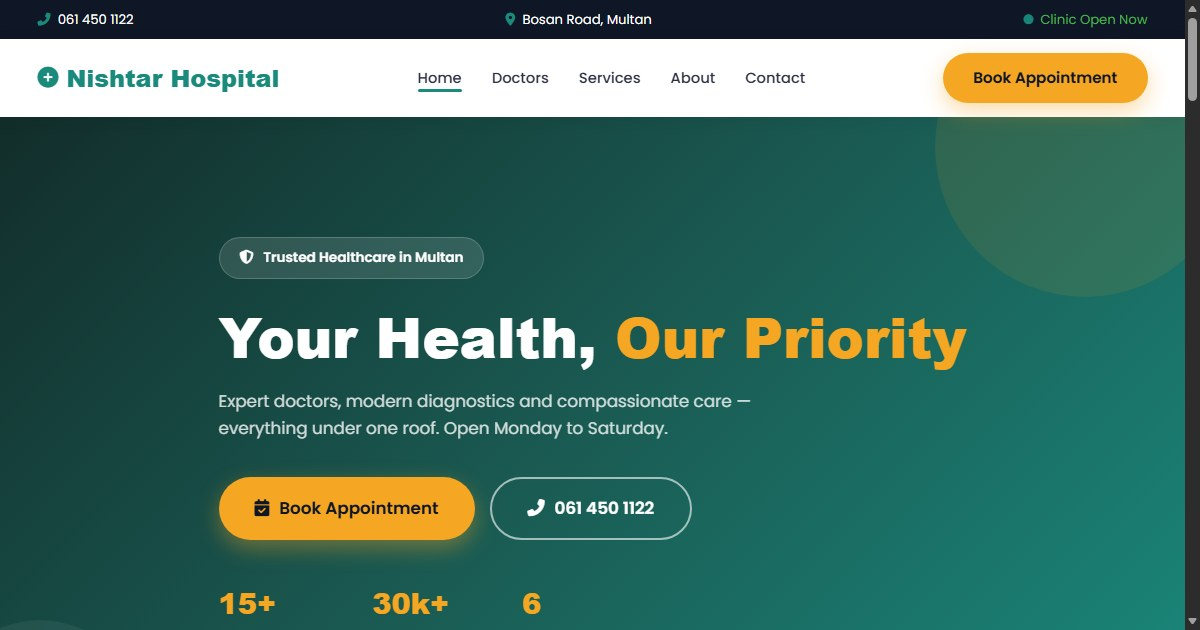
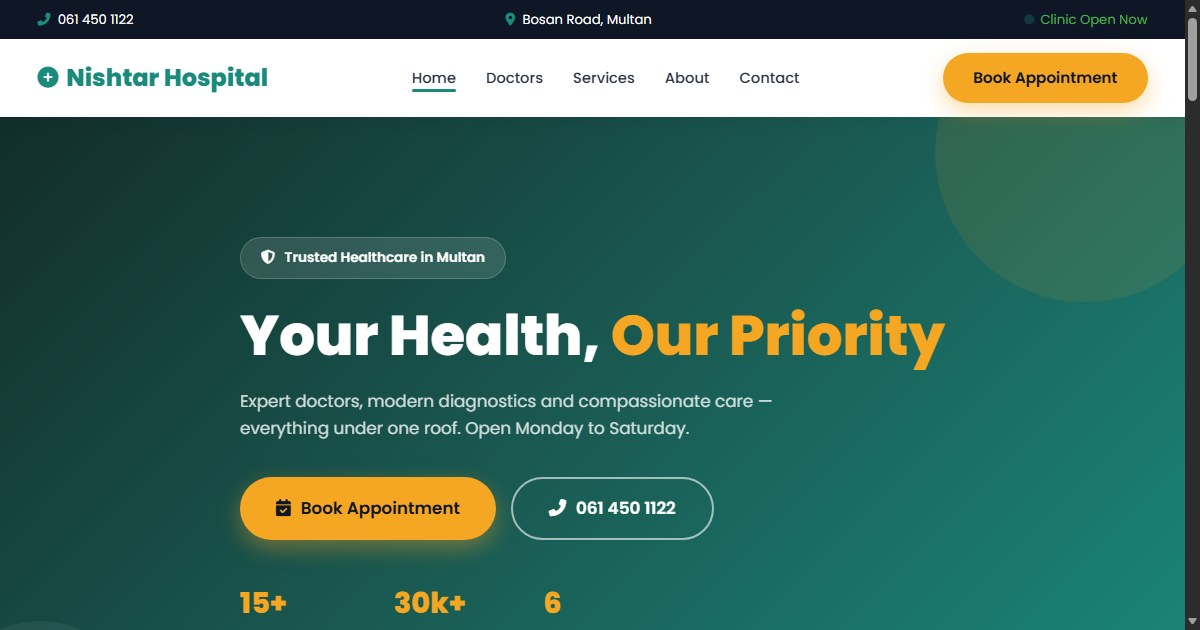
Sync shadowed sub-site folders with their project repos

diff --git a/lumiere-dental/index.html b/lumiere-dental/index.html
@@ -5,7 +5,22 @@
     <meta name="viewport" content="width=device-width, initial-scale=1.0">
     <meta name="author" content="Rayyan â€” Web Developer">
     <meta name="theme-color" content="#6c5ce7">
+    <meta name="robots" content="index, follow">
+    <link rel="canonical" href="https://pvpayaan-commits.github.io/lumiere-dental/">
+    <meta property="og:type" content="website">
+    <meta property="og:site_name" content="LumiÃ¨re Dental Studio">
+    <meta property="og:title" content="LumiÃ¨re Dental Studio â€” Your Smile, Elevated">
+    <meta property="og:description" content="Lumière Dental Studio is a premium dental experience combining artistry, technology and compassionate care in the heart of the city.">
+    <meta property="og:url" content="https://pvpayaan-commits.github.io/lumiere-dental/">
+    <meta property="og:image" content="https://pvpayaan-commits.github.io/lumiere-dental/og-cover.jpg">
+    <meta name="twitter:card" content="summary_large_image">
+    <meta name="twitter:title" content="LumiÃ¨re Dental Studio â€” Your Smile, Elevated">
+    <meta name="twitter:description" content="Lumière Dental Studio is a premium dental experience combining artistry, technology and compassionate care in the heart of the city.">
+    <meta name="twitter:image" content="https://pvpayaan-commits.github.io/lumiere-dental/og-cover.jpg">
+    <link rel="icon" href="og-cover.jpg" type="image/jpeg">
     <meta name="description" content="Lumière Dental Studio is a premium dental experience combining artistry, technology and compassionate care in the heart of the city.">
+    <meta name="author" content="Rayyan â€” Web Developer">
+    <meta name="theme-color" content="#6c5ce7">
     <meta name="robots" content="index, follow">
     <link rel="canonical" href="https://pvpayaan-commits.github.io/lumiere-dental/">
     <meta property="og:type" content="website">
@@ -18,8 +33,7 @@
     <meta name="twitter:title" content="Lumière Dental Studio — Your Smile, Elevated">
     <meta name="twitter:description" content="Lumière Dental Studio is a premium dental experience combining artistry, technology and compassionate care in the heart of the city.">
     <meta name="twitter:image" content="https://pvpayaan-commits.github.io/lumiere-dental/og-cover.jpg">
-    <link rel="icon" href="../assets/favicon.svg" type="image/svg+xml">
-    <meta name="description" content="Lumière Dental Studio — A premium dental experience combining artistry, technology, and compassionate care in the heart of the city.">
+    <link rel="icon" href="og-cover.jpg" type="image/jpeg">
     <title>Lumière Dental Studio — Your Smile, Elevated</title>
     <link rel="stylesheet" href="styles.css">
     <link rel="preconnect" href="https://fonts.googleapis.com">

diff --git a/city-care-clinic/index.html b/city-care-clinic/index.html
@@ -3,9 +3,9 @@
 <head>
     <meta charset="UTF-8">
     <meta name="viewport" content="width=device-width, initial-scale=1.0">
+    <meta name="description" content="Nishtar Hospital in Multan delivers quality healthcare with experienced doctors, modern facilities and 24/7 emergency care.">
     <meta name="author" content="Rayyan â€” Web Developer">
     <meta name="theme-color" content="#6c5ce7">
-    <meta name="description" content="Nishtar Hospital in Multan delivers quality healthcare with experienced doctors, modern facilities and 24/7 emergency care.">
     <meta name="robots" content="index, follow">
     <link rel="canonical" href="https://pvpayaan-commits.github.io/city-care-clinic/">
     <meta property="og:type" content="website">
@@ -18,7 +18,7 @@
     <meta name="twitter:title" content="Nishtar Hospital — Multan">
     <meta name="twitter:description" content="Nishtar Hospital in Multan delivers quality healthcare with experienced doctors, modern facilities and 24/7 emergency care.">
     <meta name="twitter:image" content="https://pvpayaan-commits.github.io/city-care-clinic/og-cover.jpg">
-    <link rel="icon" href="../assets/favicon.svg" type="image/svg+xml">
+    <link rel="icon" href="og-cover.jpg" type="image/jpeg">
     <title>Nishtar Hospital — Multan</title>
     <link rel="stylesheet" href="style.css">
     <link href="https://fonts.googleapis.com/css2?family=Poppins:wght@300;400;500;600;700;800&family=Plus+Jakarta+Sans:wght@700;800&display=swap" rel="stylesheet">
